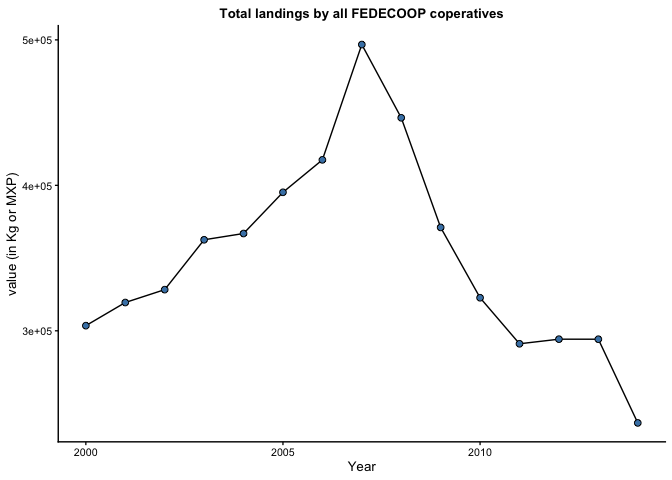
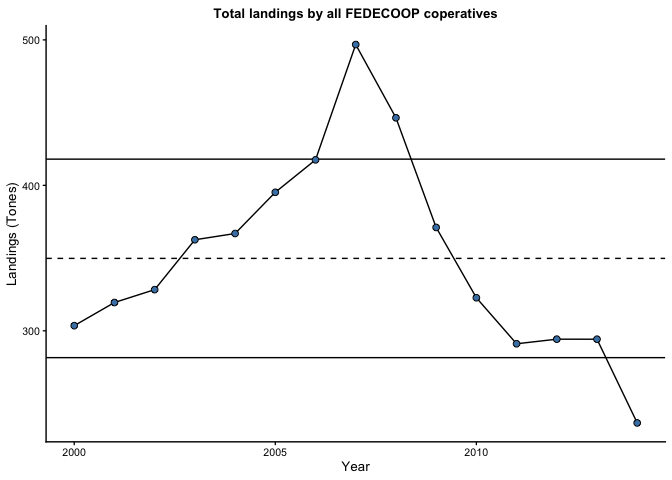
Updating all

diff --git a/scripts/3_abalone_fishery.md b/scripts/3_abalone_fishery.md
@@ -19,83 +19,85 @@ cooperative.
     ## geometry type:  POLYGON
     ## dimension:      XY
     ## bbox:           xmin: 614359.1 ymin: 2896921 xmax: 873150.6 ymax: 3172240
-    ## projected CRS:  WGS 84 / UTM zone 11N
+    ## CRS:            32611
 
 ## Prepare data
 
-This is some very messy data. We’ll first have to filter to include only
-the nince cooperatives that are part of FEDECOOP. Then, we’ll keep only
-data on abalone, and then filter again to keep only data on abalone
+Thes are some very messy data. We’ll first have to filter it to keep
+only the nince cooperatives that are part of FEDECOOP. Then, we’ll keep
+only data on abalone, and then filter again to keep only data on abalone
 where weight is reported without accounting for abalone shell. Then I
 will modify the coperative names so that they match the spatial dataset.
 
-Once all teh filters and modifications are ready, I’ll then group data
-at the coop-year level and create a timeseries of landings and value
-associated with those landings.
-
-The resulting table contins the total monthly landings and revenue (as
-well as price) at the coop-year-month level. A preview of this panel is
+Once all the filters and modifications are ready, I’ll then group data
+at the coop-year level and create a time series of landings. Landings
+data will be reported in metric tones. The resulting table contins the
+total annual landings at the coop level. A preview of this panel is
 this:
 
 | year | coop                      | landed\_weight |
 | ---: | :------------------------ | -------------: |
-| 2000 | Bahia de Tortugas         |       64226.68 |
-| 2000 | Buzos y Pescadores        |       63169.96 |
-| 2000 | California de San Ignacio |       46966.92 |
-| 2000 | Emancipacion              |        9322.46 |
-| 2000 | Isla Cedros               |       15555.68 |
-| 2000 | Leyes de Reforma          |        9522.38 |
-| 2000 | Progreso                  |       41457.22 |
-| 2000 | Punta Abreojos            |       53309.62 |
-| 2001 | Bahia de Tortugas         |       66678.08 |
-| 2001 | Buzos y Pescadores        |       68710.60 |
-| 2001 | California de San Ignacio |       39986.38 |
-| 2001 | Emancipacion              |       14280.00 |
-| 2001 | Isla Cedros               |       28443.38 |
-| 2001 | Leyes de Reforma          |       13056.68 |
-| 2001 | Progreso                  |       38310.86 |
-| 2001 | Punta Abreojos            |       49980.00 |
-| 2002 | Bahia de Tortugas         |       70438.48 |
-| 2002 | Buzos y Pescadores        |       65164.40 |
-| 2002 | California de San Ignacio |       39984.00 |
-| 2002 | Emancipacion              |       20458.48 |
-| 2002 | Isla Cedros               |       25901.54 |
-| 2002 | Leyes de Reforma          |       12811.54 |
-| 2002 | Progreso                  |       37620.66 |
-| 2002 | Punta Abreojos            |       55915.72 |
+| 2000 | Bahia de Tortugas         |       64.22668 |
+| 2000 | Buzos y Pescadores        |       63.16996 |
+| 2000 | California de San Ignacio |       46.96692 |
+| 2000 | Emancipacion              |        9.32246 |
+| 2000 | Isla Cedros               |       15.55568 |
+| 2000 | Leyes de Reforma          |        9.52238 |
+| 2000 | Progreso                  |       41.45722 |
+| 2000 | Punta Abreojos            |       53.30962 |
+| 2001 | Bahia de Tortugas         |       66.67808 |
+| 2001 | Buzos y Pescadores        |       68.71060 |
+| 2001 | California de San Ignacio |       39.98638 |
+| 2001 | Emancipacion              |       14.28000 |
+| 2001 | Isla Cedros               |       28.44338 |
+| 2001 | Leyes de Reforma          |       13.05668 |
+| 2001 | Progreso                  |       38.31086 |
+| 2001 | Punta Abreojos            |       49.98000 |
+| 2002 | Bahia de Tortugas         |       70.43848 |
+| 2002 | Buzos y Pescadores        |       65.16440 |
+| 2002 | California de San Ignacio |       39.98400 |
+| 2002 | Emancipacion              |       20.45848 |
+| 2002 | Isla Cedros               |       25.90154 |
+| 2002 | Leyes de Reforma          |       12.81154 |
+| 2002 | Progreso                  |       37.62066 |
+| 2002 | Punta Abreojos            |       55.91572 |
 
 Landings (kg), revenue (MXP), and prices (MXP / Kg) for the abalone
 fishery in 9 cooperatives belonging to FEDECOOP.
 
 # Tables and Figures
 
-## Total landings and revenues
+## Total landings
 
 Let’s create a table that shows the total landings for each cooperative
-on any given
-year.
+on any given year. We’ll also add row total and column
+totals.
 
 | year  | Bahia de Tortugas | Buzos y Pescadores | California de San Ignacio | Emancipacion | Isla Cedros | La Purisima | Leyes de Reforma |  Progreso | Punta Abreojos |     Total |
 | :---- | ----------------: | -----------------: | ------------------------: | -----------: | ----------: | ----------: | ---------------: | --------: | -------------: | --------: |
-| 2000  |          64226.68 |           63169.96 |                  46966.92 |      9322.46 |    15555.68 |          NA |          9522.38 |  41457.22 |       53309.62 |  303530.9 |
-| 2001  |          66678.08 |           68710.60 |                  39986.38 |     14280.00 |    28443.38 |          NA |         13056.68 |  38310.86 |       49980.00 |  319446.0 |
-| 2002  |          70438.48 |           65164.40 |                  39984.00 |     20458.48 |    25901.54 |          NA |         12811.54 |  37620.66 |       55915.72 |  328294.8 |
-| 2003  |          83554.66 |           63346.08 |                  39974.48 |     28550.48 |    28164.92 |          NA |         14860.72 |  42847.14 |       61285.00 |  362583.5 |
-| 2004  |          83321.42 |           63148.54 |                  34862.24 |     36649.62 |    28950.32 |          NA |         17830.96 |  39703.16 |       62420.26 |  366886.5 |
-| 2005  |          89647.46 |           67651.50 |                  46381.44 |     31106.60 |    33320.00 |          NA |         23300.20 |  28609.98 |       75208.00 |  395225.2 |
-| 2006  |          91615.72 |           66551.94 |                  47083.54 |     32072.88 |    38065.72 |          NA |         29797.60 |  32610.76 |       79730.00 |  417528.2 |
-| 2007  |          94019.52 |           66897.04 |                  47999.84 |     36909.04 |    39222.40 |     54423.0 |         28531.44 |  38351.32 |       90440.00 |  496793.6 |
-| 2008  |          97394.36 |           67910.92 |                  48035.54 |     36885.24 |    39151.00 |          NA |         28560.00 |  38070.48 |       90440.00 |  446447.5 |
-| 2009  |          78459.08 |           11926.18 |                  50898.68 |     39212.88 |    41431.04 |          NA |         12982.90 |  44758.28 |       91394.38 |  371063.4 |
-| 2010  |          56879.62 |           12499.76 |                  56194.18 |     35395.36 |    34003.06 |      4016.0 |          2008.72 |  31637.34 |       90092.52 |  322726.6 |
-| 2011  |          42675.78 |            4912.32 |                  60423.44 |     41531.00 |    24611.58 |          NA |           433.16 |  33193.86 |       83300.00 |  291081.1 |
-| 2012  |          32586.96 |                 NA |                  62936.72 |     44063.32 |    26113.36 |          NA |               NA |  35714.28 |       92824.76 |  294239.4 |
-| 2013  |           6242.74 |                 NA |                  68962.88 |     47481.00 |    27293.84 |      3439.1 |               NA |  40057.78 |      100738.26 |  294215.6 |
-| 2014  |                NA |                 NA |                  42749.56 |     25942.00 |    29178.80 |          NA |               NA |  42316.40 |       96487.58 |  236674.3 |
-| Total |         957740.56 |          621889.24 |                 733439.84 |    479860.36 |   459406.64 |     61878.1 |        193696.30 | 565259.52 |     1173566.10 | 5246736.7 |
+| 2000  |          64.22668 |           63.16996 |                  46.96692 |      9.32246 |    15.55568 |          NA |          9.52238 |  41.45722 |       53.30962 |  303.5309 |
+| 2001  |          66.67808 |           68.71060 |                  39.98638 |     14.28000 |    28.44338 |          NA |         13.05668 |  38.31086 |       49.98000 |  319.4460 |
+| 2002  |          70.43848 |           65.16440 |                  39.98400 |     20.45848 |    25.90154 |          NA |         12.81154 |  37.62066 |       55.91572 |  328.2948 |
+| 2003  |          83.55466 |           63.34608 |                  39.97448 |     28.55048 |    28.16492 |          NA |         14.86072 |  42.84714 |       61.28500 |  362.5835 |
+| 2004  |          83.32142 |           63.14854 |                  34.86224 |     36.64962 |    28.95032 |          NA |         17.83096 |  39.70316 |       62.42026 |  366.8865 |
+| 2005  |          89.64746 |           67.65150 |                  46.38144 |     31.10660 |    33.32000 |          NA |         23.30020 |  28.60998 |       75.20800 |  395.2252 |
+| 2006  |          91.61572 |           66.55194 |                  47.08354 |     32.07288 |    38.06572 |          NA |         29.79760 |  32.61076 |       79.73000 |  417.5282 |
+| 2007  |          94.01952 |           66.89704 |                  47.99984 |     36.90904 |    39.22240 |     54.4230 |         28.53144 |  38.35132 |       90.44000 |  496.7936 |
+| 2008  |          97.39436 |           67.91092 |                  48.03554 |     36.88524 |    39.15100 |          NA |         28.56000 |  38.07048 |       90.44000 |  446.4475 |
+| 2009  |          78.45908 |           11.92618 |                  50.89868 |     39.21288 |    41.43104 |          NA |         12.98290 |  44.75828 |       91.39438 |  371.0634 |
+| 2010  |          56.87962 |           12.49976 |                  56.19418 |     35.39536 |    34.00306 |      4.0160 |          2.00872 |  31.63734 |       90.09252 |  322.7266 |
+| 2011  |          42.67578 |            4.91232 |                  60.42344 |     41.53100 |    24.61158 |          NA |          0.43316 |  33.19386 |       83.30000 |  291.0811 |
+| 2012  |          32.58696 |                 NA |                  62.93672 |     44.06332 |    26.11336 |          NA |               NA |  35.71428 |       92.82476 |  294.2394 |
+| 2013  |           6.24274 |                 NA |                  68.96288 |     47.48100 |    27.29384 |      3.4391 |               NA |  40.05778 |      100.73826 |  294.2156 |
+| 2014  |                NA |                 NA |                  42.74956 |     25.94200 |    29.17880 |          NA |               NA |  42.31640 |       96.48758 |  236.6743 |
+| Total |         957.74056 |          621.88924 |                 733.43984 |    479.86036 |   459.40664 |     61.8781 |        193.69630 | 565.25952 |     1173.56610 | 5246.7367 |
 
 Total landings (Kg) for each cooperative through time. NAs represent
 missing data for a given year / cooperative combination.
+
+The table above is shown in the figures below. The first figure shows
+the timseries of landed abalone for each cooperative. The second figure
+shows the aggregate abalone landings for all FEDECOOP cooperatives.
 
 ![](3_abalone_fishery_files/figure-gfm/unnamed-chunk-7-1.png)<!-- -->
 
@@ -110,17 +112,17 @@ the grand mean.
 
 | coop                      |     mean |        sd |
 | :------------------------ | -------: | --------: |
-| Bahia de Tortugas         | 68410.04 | 26320.573 |
-| Buzos y Pescadores        | 51824.10 | 25486.544 |
-| California de San Ignacio | 48895.99 |  9554.259 |
-| Emancipacion              | 31990.69 | 10757.187 |
-| Isla Cedros               | 30627.11 |  6918.571 |
-| La Purisima               | 20626.03 | 29270.453 |
-| Leyes de Reforma          | 16141.36 |  9866.574 |
-| Progreso                  | 37683.97 |  4565.258 |
-| Punta Abreojos            | 78237.74 | 17230.245 |
+| Bahia de Tortugas         | 68.41004 | 26.320573 |
+| Buzos y Pescadores        | 51.82410 | 25.486544 |
+| California de San Ignacio | 48.89599 |  9.554259 |
+| Emancipacion              | 31.99069 | 10.757187 |
+| Isla Cedros               | 30.62711 |  6.918571 |
+| La Purisima               | 20.62603 | 29.270453 |
+| Leyes de Reforma          | 16.14136 |  9.866574 |
+| Progreso                  | 37.68397 |  4.565258 |
+| Punta Abreojos            | 78.23774 | 17.230245 |
 
-Annual Mean and SDlanded weigh for each cooperative.
+Annual Mean and SD landed weigh for each cooperative.
 
 ![](3_abalone_fishery_files/figure-gfm/unnamed-chunk-10-1.png)<!-- -->
 
@@ -128,9 +130,13 @@ Annual Mean and SDlanded weigh for each cooperative.
 
 ![](3_abalone_fishery_files/figure-gfm/unnamed-chunk-12-1.png)<!-- -->
 
+Based on the 2000 - 2014 data, a cooperative’s mean catch is 45.2304884
+\(\pm\) 24.7055996 tones (mean \(\pm\) SD). Total annual extraction to
+be 349.782444 \(\pm\) 68.2356602 (mean \(\pm\) SD). In FEDECOOPs website
+(<https://www.fedecoop.com.mx/>), they report that current total abalone
+extraction averages 290 metric tonnes for all cooperatives together.
+This value is closer to the more recent value in these data.
+
 However, this analyses des not accout for the temporal trend in which
 cooperatives have been forced to reduce fishing effort due to the
-diwndling status of stocks. n FEDECOOPs website
-(<https://www.fedecoop.com.mx/>), they report that total extraction
-averages 290 metric tonnes for all cooperatives together. This value is
-closer to the more recent values.
+diwndling status of stocks. I

diff --git a/scripts/4_abalone_model.md b/scripts/4_abalone_model.md
@@ -1,4 +1,4 @@
-Abalone Fishery
+Abalone model
 ================
 Juan Carlos Villaseñr-Derbez
 
@@ -34,7 +34,7 @@ in Rosstto et al 2015.
 
 ### Harvest
 
-### Natural Mortality
+### Natural Mortality in adults
 
 In abalone, natural mortality rates of settled individuals have been
 shown to be size-dependent, with survival probabilities increasing with
@@ -92,30 +92,12 @@ where they end up in
 ### Transition Matrix \(M\)
 
 The transition matrix needs three pieces of information. Growth,
-survival, and
-    harvest.
+survival, and harvest.
 
-    ##                5–30       30–55       55–80     80–105     105–130   130–155
-    ## 5–30    0.011548780 0.000000000 0.000000000 0.00000000 0.000000000 0.0000000
-    ## 30–55   0.209394563 0.007098121 0.000000000 0.00000000 0.000000000 0.0000000
-    ## 55–80   0.128516748 0.283055482 0.007434853 0.00000000 0.000000000 0.0000000
-    ## 80–105  0.001908202 0.272872863 0.351745205 0.01780988 0.000000000 0.0000000
-    ## 105–130 0.000000000 0.012675777 0.298584970 0.54224157 0.071829403 0.0000000
-    ## 130–155 0.000000000 0.000000000 0.006012826 0.15182386 0.659907671 0.2382582
-    ## 155–180 0.000000000 0.000000000 0.000000000 0.00000000 0.004717955 0.1611182
-    ## 180–205 0.000000000 0.000000000 0.000000000 0.00000000 0.000000000 0.0000000
-    ## 205–230 0.000000000 0.000000000 0.000000000 0.00000000 0.000000000 0.0000000
-    ##           155–180    180–205   205–230
-    ## 5–30    0.0000000 0.00000000 0.0000000
-    ## 30–55   0.0000000 0.00000000 0.0000000
-    ## 55–80   0.0000000 0.00000000 0.0000000
-    ## 80–105  0.0000000 0.00000000 0.0000000
-    ## 105–130 0.0000000 0.00000000 0.0000000
-    ## 130–155 0.0000000 0.00000000 0.0000000
-    ## 155–180 0.1295079 0.00000000 0.0000000
-    ## 180–205 0.1099709 0.16922345 0.0000000
-    ## 205–230 0.0000000 0.07652453 0.2500802
+    ## [1] 30.17576
 
 ![](4_abalone_model_files/figure-gfm/unnamed-chunk-14-1.png)<!-- -->
 
 ![](4_abalone_model_files/figure-gfm/unnamed-chunk-15-1.png)<!-- -->
+
+![](4_abalone_model_files/figure-gfm/unnamed-chunk-16-1.png)<!-- -->

diff --git a/scripts/1_map.md b/scripts/1_map.md
@@ -24,7 +24,7 @@ and transform it to longlat
     ## geometry type:  POLYGON
     ## dimension:      XY
     ## bbox:           xmin: 614359.1 ymin: 2896921 xmax: 873150.6 ymax: 3172240
-    ## projected CRS:  WGS 84 / UTM zone 11N
+    ## CRS:            32611
 
 Let’s briefly visualize this data. It contains 9 features (TURFs) and 9
 fields (columns). The columns

diff --git a/scripts/2_distances.md b/scripts/2_distances.md
@@ -20,7 +20,7 @@ the pairwise distances between all
     ## geometry type:  POLYGON
     ## dimension:      XY
     ## bbox:           xmin: 614359.1 ymin: 2896921 xmax: 873150.6 ymax: 3172240
-    ## projected CRS:  WGS 84 / UTM zone 11N
+    ## CRS:            32611
 
 # Calculations
 
